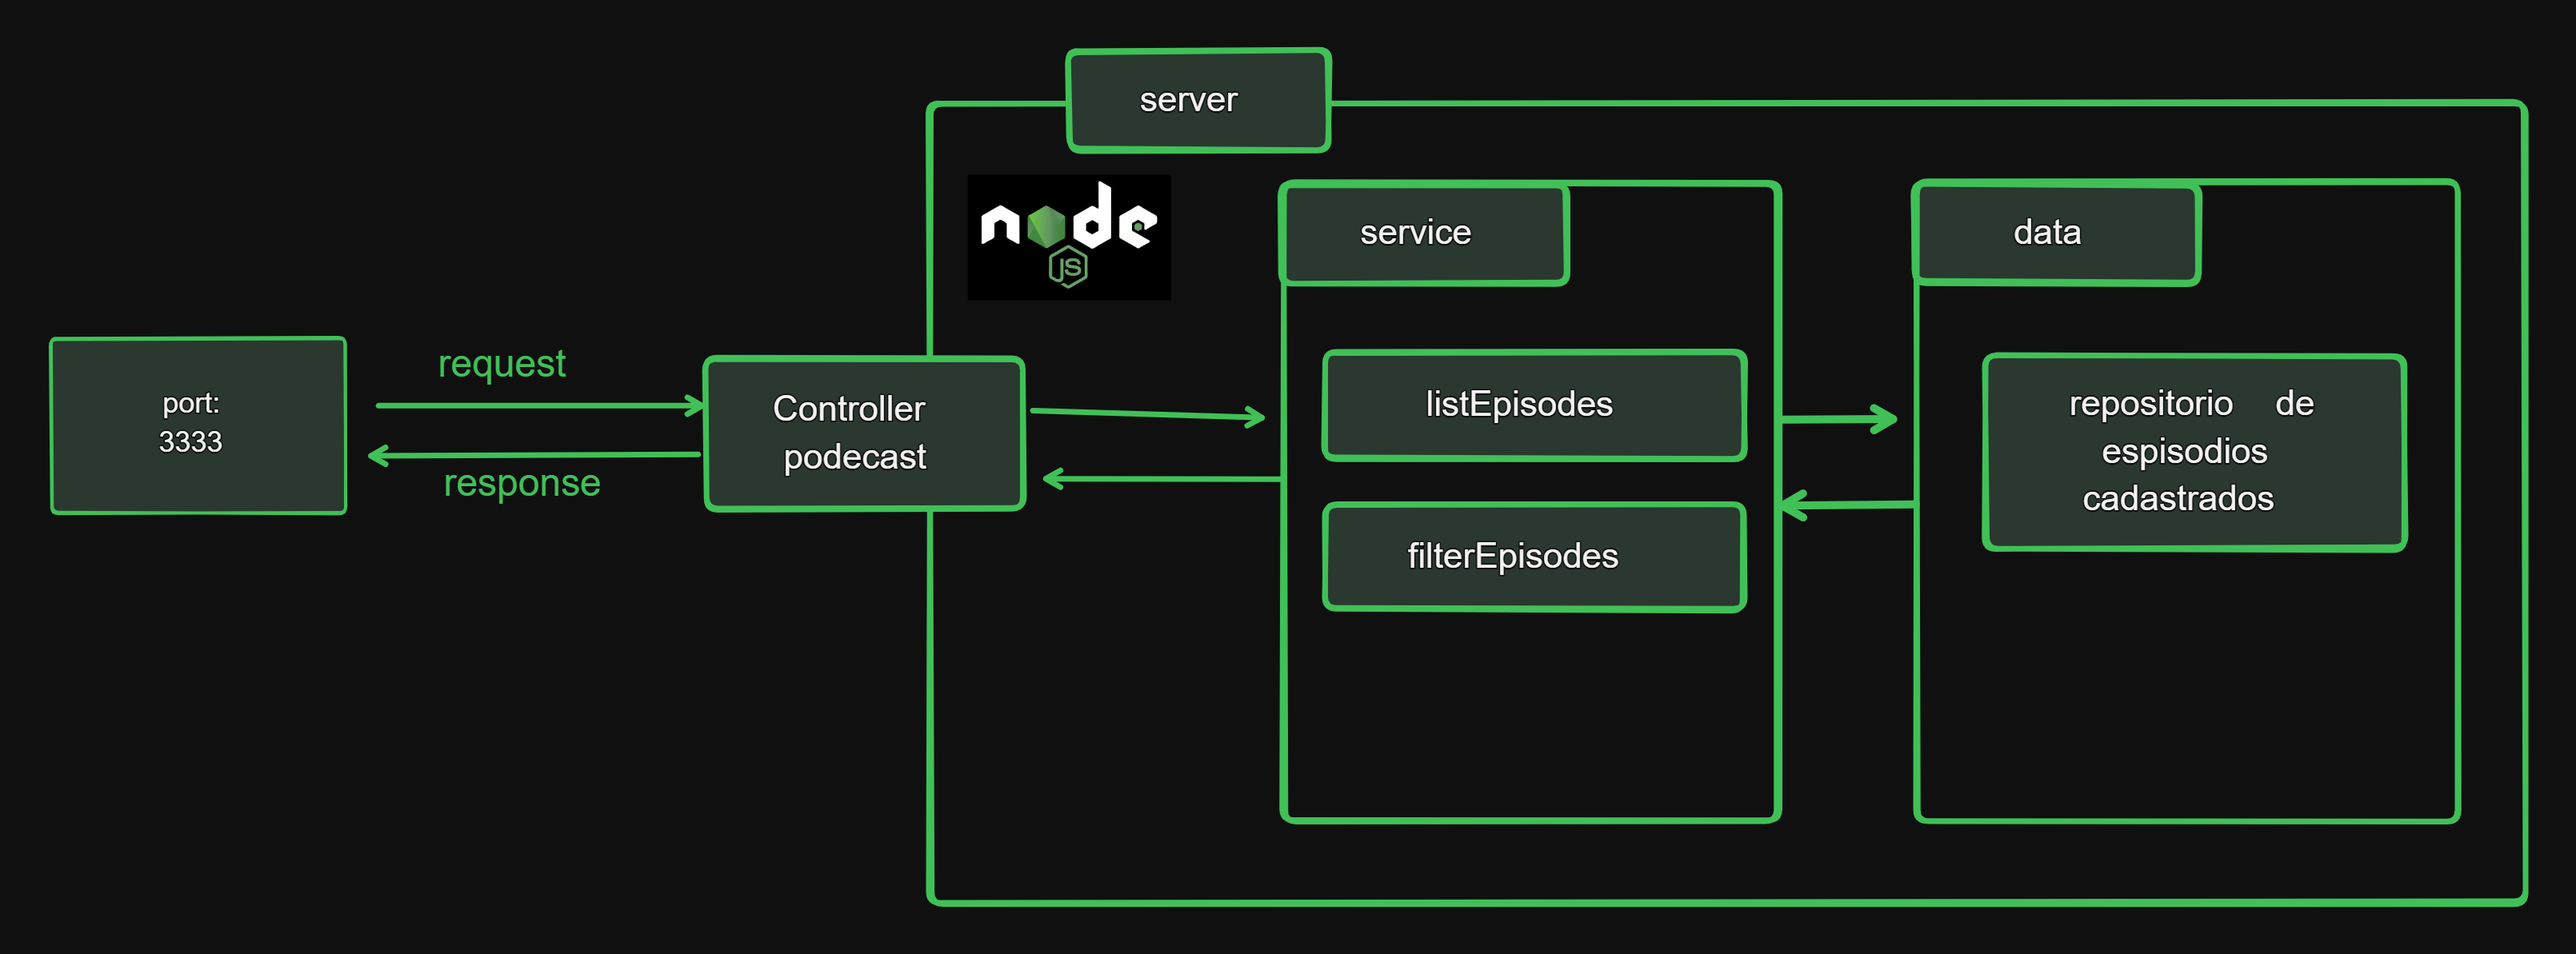
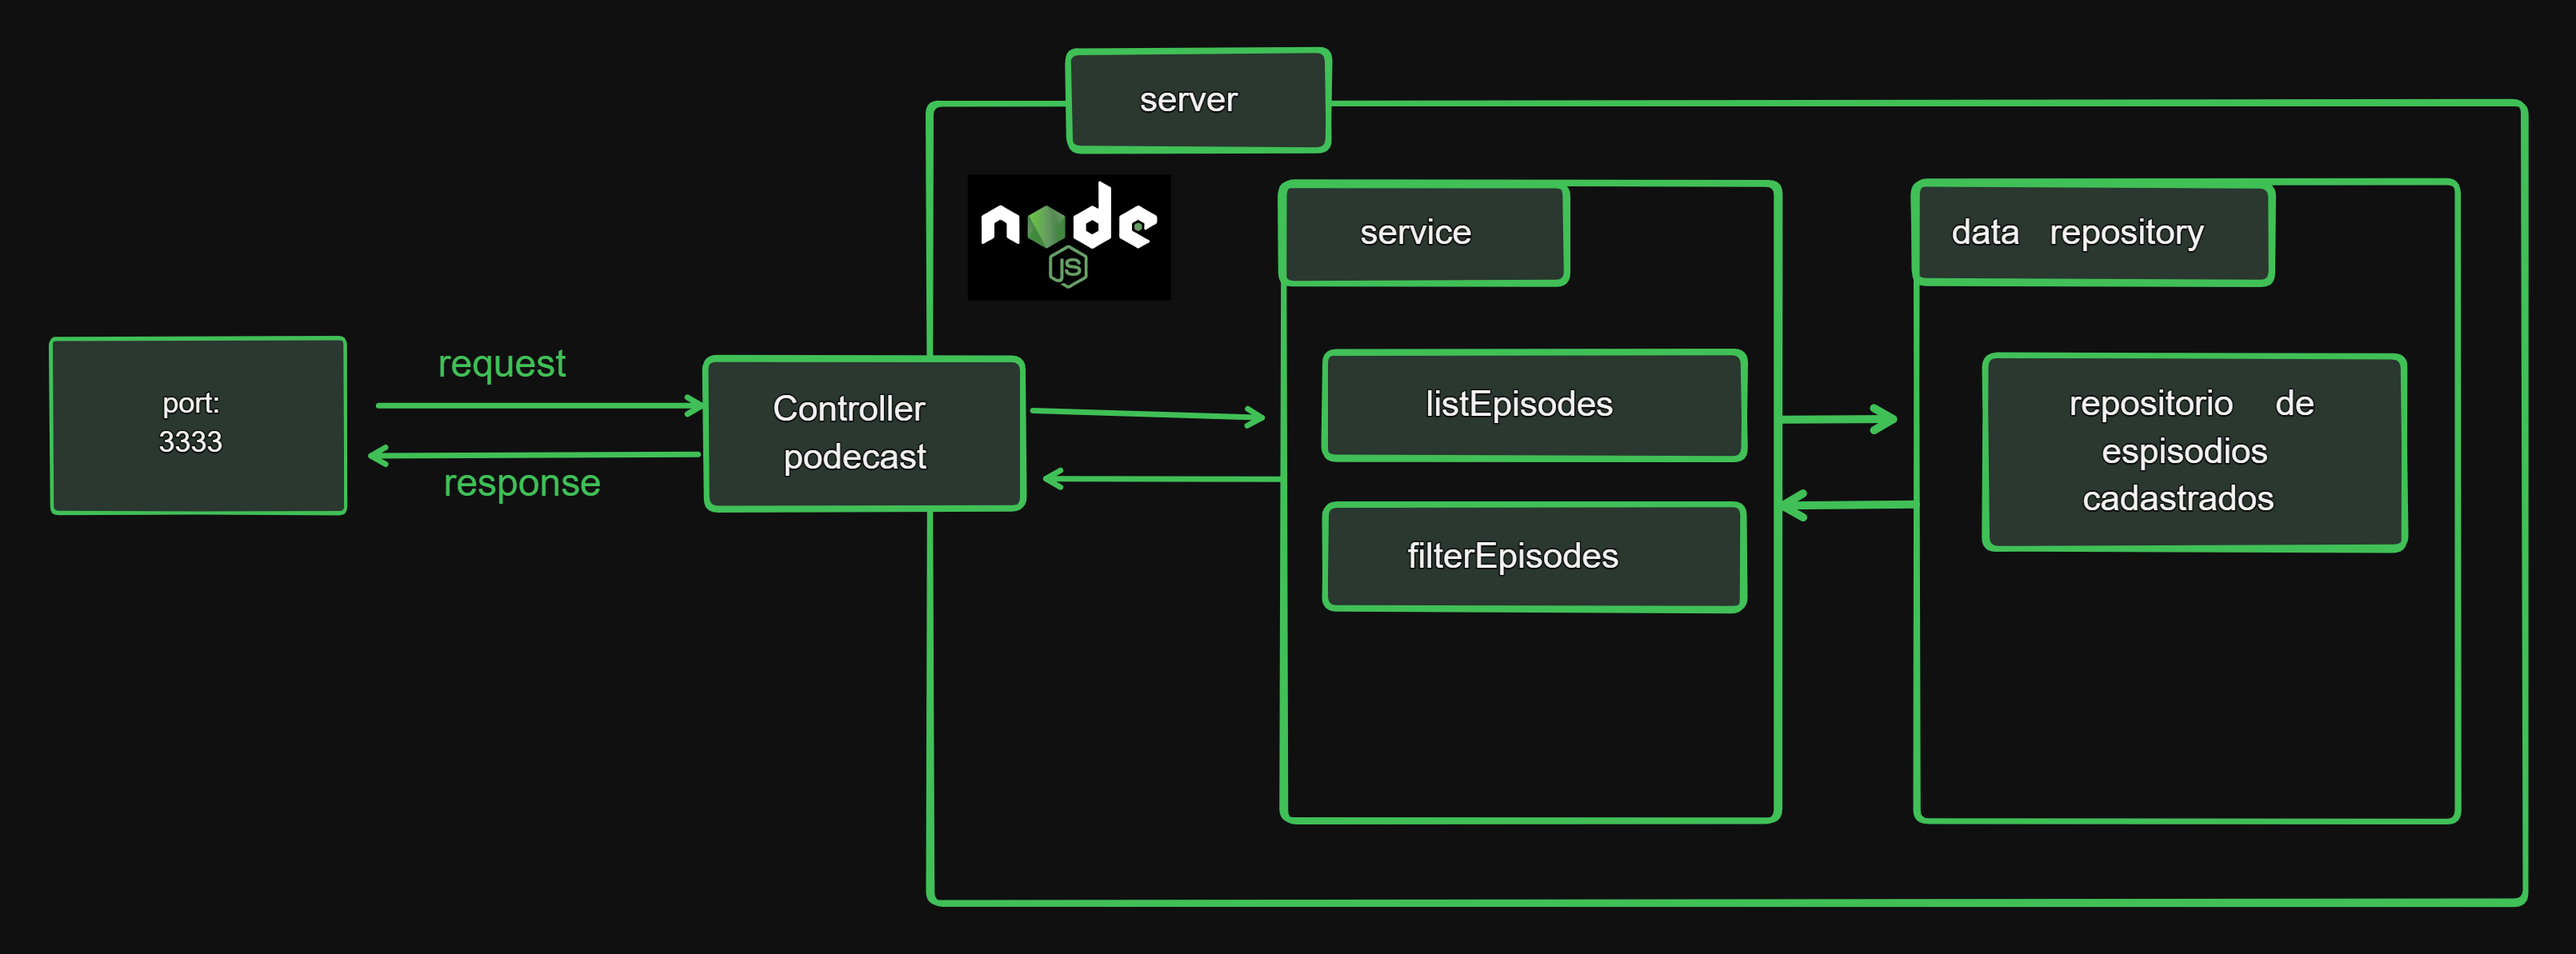
create filter epsodes

Changed region(s): [[0.7453, 0.1861, 0.9006, 0.3101]]

diff --git a/src/repositories/podcast.repository.ts b/src/repositories/podcast.repository.ts
@@ -1,14 +1,17 @@
 import fs from "fs"
 import path from "path";
-import { Podcast } from "../models/podcast.model";
+import { PodcastModel } from "../models/podcast.model";
 
 
 const pathData = path.join(__dirname, "../repositories/podcasts.json");
 
-export const repoPodcast = async (): Promise<Podcast[]> => {
+export const repoPodcast = async (podcastName?:string): Promise<PodcastModel[]> => {
     const rawData = fs.readFileSync(pathData,"utf-8");
+    let jsonFile = JSON.parse(rawData);
 
-    const jsonFile = JSON.parse(rawData);
+    if(podcastName){
+        jsonFile = jsonFile.filter((item:PodcastModel)=> item.podcastName === podcastName)
+    }
 
     return jsonFile;
 }

diff --git a/src/services/filter-episodes.service.ts b/src/services/filter-episodes.service.ts
@@ -1,0 +1,7 @@
+import { repoPodcast } from "../repositories/podcast.repository"
+
+export const serviceFilterEpisodes = async (podcastName: string) =>{
+    const data = await repoPodcast(podcastName);
+
+    return data;
+}

diff --git a/src/models/podcast.model.ts b/src/models/podcast.model.ts
@@ -1,4 +1,4 @@
-export interface Podcast {
+export interface PodcastModel {
     podcastName: string,
     episode: string,
     videoId: string,
